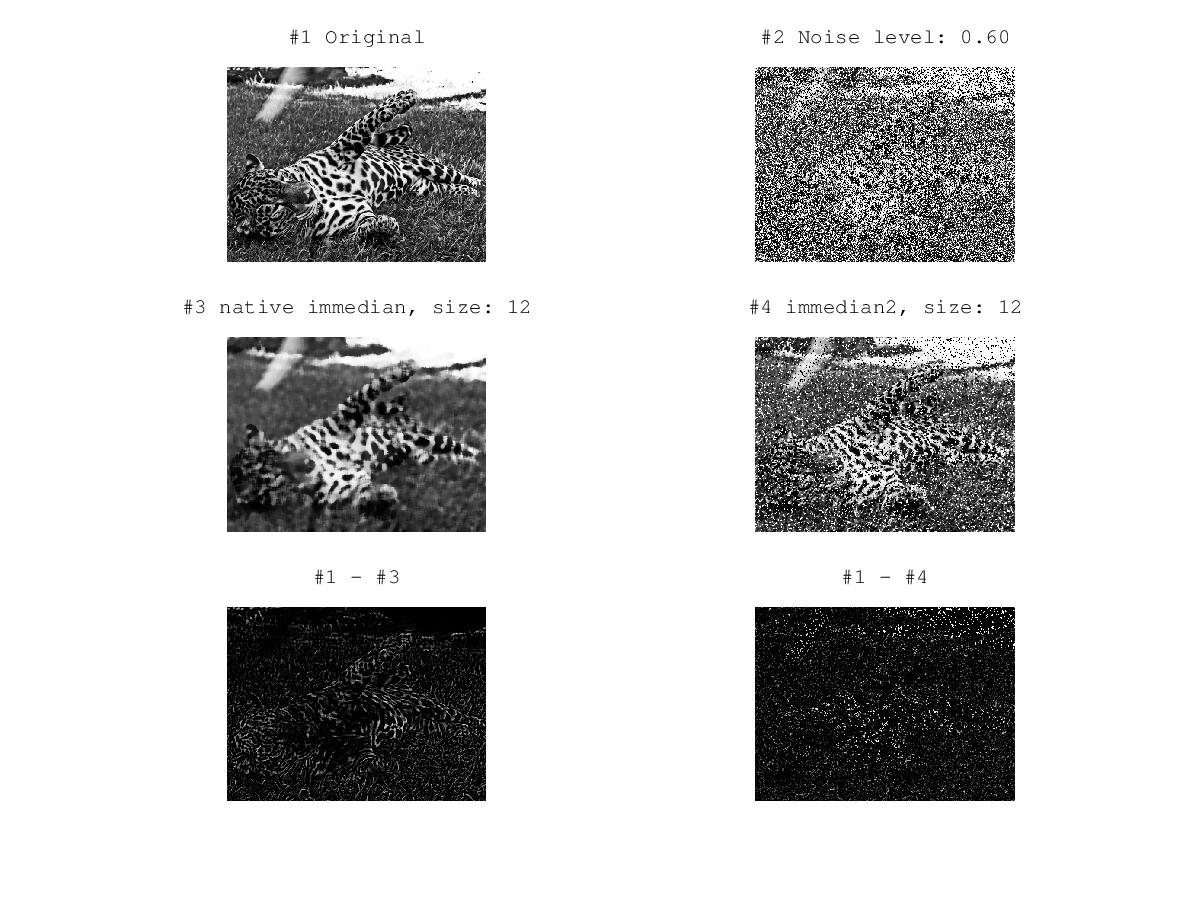
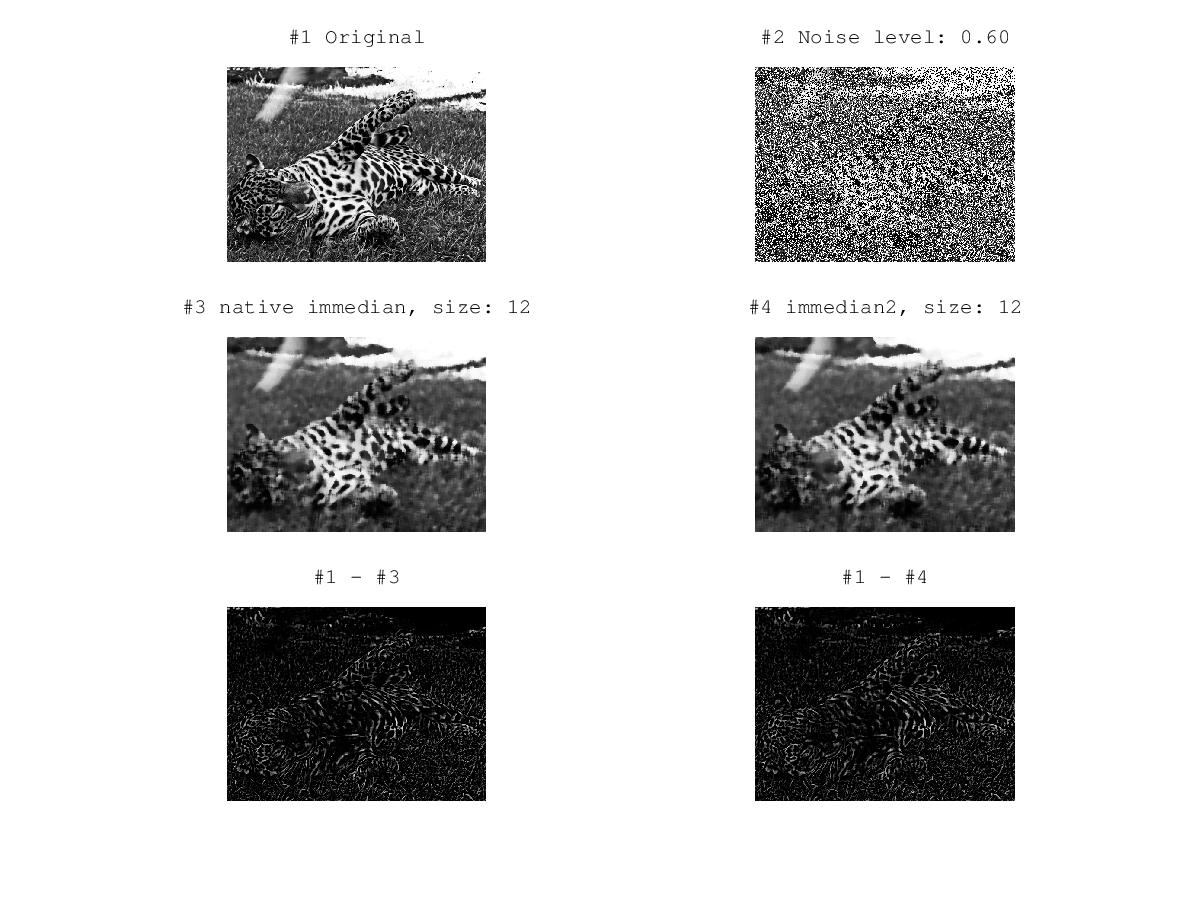
Debug

diff --git a/ps3/immedian_demo.m b/ps3/immedian_demo.m
@@ -20,7 +20,7 @@ imshow(R1);
 title(sprintf('#3 native immedian, size: %d', median_size));
 
 subplot(3,2,4);
-R2 = immedian(N, 3);
+R2 = immedian(N, median_size);
 imshow(R2);
 title(sprintf('#4 immedian2, size: %d', median_size));
 

diff --git a/ps3/immedian.m b/ps3/immedian.m
@@ -1,6 +1,6 @@
 function J = immedian(I, box_size)
 
-s = (box_size-1) / 2;
+s = round((box_size-1) / 2);
 [m n d] = size(I);
 J = zeros(m,n,d);
 
